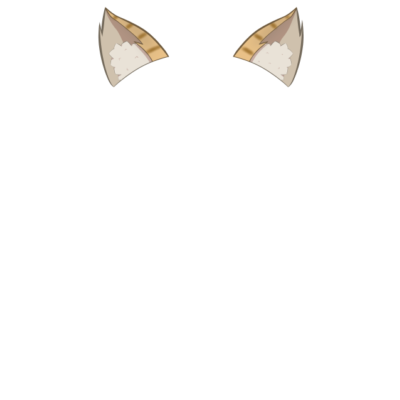
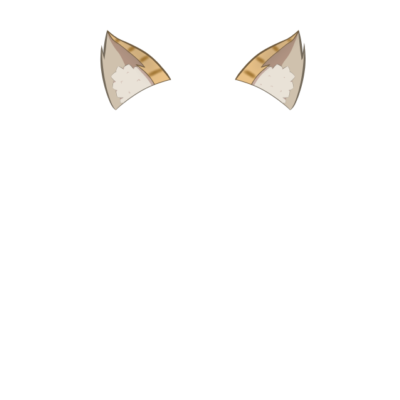
0320

Changed region(s): [[0.57, 0.0, 0.78, 0.27], [0.24, 0.0, 0.42, 0.27]]

diff --git a/merge.py b/merge.py
@@ -11,9 +11,12 @@ class merge():
         self.predictor = openpifpaf.Predictor(checkpoint='shufflenetv2k16')
         self.cap = caputure.caputure(self.predictor, f)
         # 画像名, 中心番地, サイズ, 必要検出, 基準ライン
-        self.effects = [[["null", 0, 0, [], []] for i in range(3)] for i in range(10)]
+        self.effects = [[["null", 0, 0, [], [], False] for i in range(3)] for i in range(10)]
+        # マーカーのフラグ
         self.flag = False
+        # スクショカウントのフラグ
         self.shot = False
+        # カウントが開始してるかどうかのフラグ
         self.countFlag = False
         pass
 
@@ -37,57 +40,61 @@ class merge():
                                 flag = False
                                 break
                         if flag:
-                            effect.effect(frame, d, "./effect/" + effectData[0] + ".png", effectData[1], effectData[2], effectData[4][0], effectData[4][1])
+                            effect.effect(frame, d, "./effect/" + effectData[0] + ".png", effectData[1], effectData[2], effectData[4][0], effectData[4][1], effectData[5])
                 at += 1
         
         return frame
     
+    # 付与するエフェクトの判定する関数
     def selectEffects(self, d, at):
         #案１の検出
-        # if d[5][0] and d[6][0] and d[7][0] and d[8][0] and d[9][0] and d[10][0] and d[15][0] and d[16][0]:
-        #     if d[9][2] < d[7][2] and d[10][2] < d[8][2] and d[5][2] < d[9][2] and d[6][2] < d[10][2] and d[15][1]-d[16][1] > 50:
-        #         self.clearEffects(at)
-        #         self.effects[at][0] = ["1", 0, 5, [0, 1, 2], [1, 2]]
+        if d[5][0] and d[6][0] and d[7][0] and d[8][0] and d[9][0] and d[10][0]:
+            far_sholder = abs(d[5][1] - d[6][1])
+            if d[9][1] > d[5][1] and d[9][2] > d[5][2] and d[9][1] < d[5][1] + far_sholder * 1.5 and d[10][1] < d[6][1] and d[10][2] > d[6][2] and d[10][1] > d[6][1] - far_sholder * 1.5 and d[9][1] > d[7][1] and d[9][2] < d[7][2]and d[10][1] < d[8][1] and d[10][2] < d[8][2]:
+                self.clearEffects(at)
+                self.effects[at][0] = ["power", 0, 8, [0, 5, 6], [5, 6], True]
         #案2の検出
         if d[1][0] and d[2][0] and d[5][0] and d[6][0] and d[9][0] and d[10][0] and d[11][0] and d[12][0]:
             if d[10][1] > d[9][1] and d[5][1]-d[2][1]+d[1][1] > d[9][1] and d[6][1]+d[2][1]-d[1][1] < d[10][1] and d[5][2] < d[9][2] and d[6][2] < d[10][2] and d[11][2] > d[9][2] and d[12][2] > d[10][2]:
                 self.clearEffects(at)
-                self.effects[at][0] = ["don", 0, 5, [0, 5, 6], [5, 6]]
-        # #案3の検出
+                self.effects[at][0] = ["don", 0, 5, [0, 5, 6], [5, 6], True]
+        #案3の検出
         if d[1][0] and d[2][0] and d[9][0] and d[10][0]:
             radius_R = math.sqrt(pow(d[9][1] - d[0][1], 2) + pow(d[9][2] - d[0][2], 2))
             radius_L = math.sqrt(pow(d[10][1] - d[0][1], 2) + pow(d[10][2] - d[0][2], 2))
             if radius_R < 5 * abs(d[1][1] - d[2][1]) and radius_L < 5 * abs(d[1][1] - d[2][1]) and d[9][2] > d[10][2]:
                 self.clearEffects(at)
-                self.effects[at][0] = ["cat_ear", 0, 6, [0, 1, 2], [1, 2]]
-                self.effects[at][1] = ["cat_tail", 11, 2.5, [11, 12], [11, 12]]
+                self.effects[at][0] = ["cat_ear", 0, 6, [0, 1, 2], [1, 2], False]
+                self.effects[at][1] = ["cat_tail", 11, 2.5, [11, 12], [11, 12], False]
         # #案4の検出
-        if d[1][0] and d[5][0] and d[6][0] and d[9][0] and d[10][0] and d[13][0] and d[14][0]:
+        if d[0][0] and d[5][0] and d[6][0] and d[9][0] and d[10][0] and d[13][0] and d[14][0]:
             far_hand = abs(d[9][1] - d[10][1])
             far_sholder = abs(d[5][1] - d[6][1])
             far_knees = abs(d[13][1] - d[14][1])
-            if far_hand > far_sholder * 2 and far_knees > far_sholder * 1.5 and d[9][2] < d[1][2]:
+            if far_hand > far_sholder * 2 and far_knees > far_sholder * 1.5 and d[9][2] < d[0][2] and d[10][2] < d[0][2] and d[9][2] > d[0][2] - far_sholder and d[10][2] > d[0][2] - far_sholder:
                 self.clearEffects(at)
-                self.effects[at][1] = ["grab_L", 9, 1.5, [7, 9], [7, 9]]
-                self.effects[at][2] = ["grab_R", 10, 1.5, [8, 10], [8, 10]]
+                self.effects[at][1] = ["grab_L", 9, 1.5, [7, 9], [7, 9], False]
+                self.effects[at][2] = ["grab_R", 10, 1.5, [8, 10], [8, 10], False]
         #案5の検出
         if d[1][0] and d[2][0] and d[9][0] and d[10][0] and d[11][0] and d[12][0]:
             radius_R = math.sqrt(pow(d[9][1] - d[11][1], 2) + pow(d[9][2] - d[11][2], 2))
             radius_L = math.sqrt(pow(d[10][1] - d[12][1], 2) + pow(d[10][2] - d[12][2], 2))
             if radius_R < 3 * abs(d[1][1] - d[2][1]) and radius_L < 3 * abs(d[1][1] - d[2][1]):
                 self.clearEffects(at)
-                self.effects[at][0] = ["kirakira", 0, 5, [0, 5, 6], [5, 6]]
-                self.effects[at][1] = ["kirakira", 0, 8, [0, 1, 2], [1, 2]]
+                self.effects[at][0] = ["kirakira", 0, 5, [0, 5, 6], [5, 6], True]
+                self.effects[at][1] = ["kirakira", 0, 8, [0, 1, 2], [1, 2], True]
         # エフェクトのクリア
         if d[5][0] and d[6][0] and d[9][0] and d[10][0]:
-            if  abs(d[9][2] - d[10][2]) < 50 and abs(d[9][1] - d[10][1] > 3.5 * abs(d[5][1] - d[6][1])) and d[9][2] > d[5][2]:
+            if  abs(d[9][2] - d[10][2]) < 50 and abs(d[9][1] - d[10][1] > 3 * abs(d[5][1] - d[6][1])) and d[9][2] > d[5][2]:
                 # cv2.line(frame, (d[9][1], d[9][2]), (d[10][1], d[10][2]), (0, 255, 0), thickness=5)
                 self.clearEffects(at)
 
+    # エフェクトをクリアする関数
     def clearEffects(self, at):
         for i in range(3):
-            self.effects[at][i] = ["null", 0, 0, [0], [0, 0]]
+            self.effects[at][i] = ["null", 0, 0, [0], [0, 0], False]
 
+    # マーカーオンオフを判定する関数
     def switchFlag(self):
         if self.flag:
             self.flag = False
@@ -95,6 +102,7 @@ class merge():
             self.flag = True
         return
 
+    # マーカーを取得座標に描画するクラス
     def drowPoint(self, frame, d):
         if d[0][0]: # 鼻
             cv2.drawMarker(frame, (d[0][1], d[0][2]), (0, 0, 255), markerSize=30)
@@ -131,6 +139,7 @@ class merge():
         if d[16][0]: # 
             cv2.drawMarker(frame, (d[16][1], d[16][2]), (0, 0, 255), markerSize=30)
 
+    # 画像を出力するクラス
     def printImg(self, frame):
         dt_now = datetime.datetime.now()
         src = str(dt_now.day) + "_" +  str(dt_now.hour) + "_" +  str(dt_now.minute) + "_" + str(dt_now.second)
@@ -138,6 +147,7 @@ class merge():
         print('./img/' + src + '.jpg')
         return
     
+    # スクショカウントのオンオフ関数
     def switchShotOn(self):
         if not self.shot and not self.countFlag:
             print("shot on")

diff --git a/main.py b/main.py
@@ -19,10 +19,6 @@ while True:
     if not ret:
         print("failed to grab frame")
         break
-
-    # パフォーマンスを向上させるために、画像を書き込みを不可にして参照渡しとします。
-    # frame.flags.writeable = False
-
     # pifpafで処理する画素値を下げている ※取得座標を変化させないといけない
     frame2 = cv2.resize(frame, dsize=None, fx=1/f , fy=1/f)
     frame2.flags.writeable = False
@@ -34,12 +30,13 @@ while True:
     frame.flags.writeable = True
 
     frame = cv2.flip(frame, 1)
-
+    # スクリーンショットの処理を開始
     if me.shot:
         t = time.time()
         print("count on")
         me.countFlag = True
         me.shot = False
+    # スクリーンショットカウントが開始
     if me.countFlag:
         c = time.time()
         if c - t >= 3:
@@ -63,10 +60,13 @@ while True:
 
 
     k = cv2.waitKey(1)
+    # マーカーを表示
     if k == ord('q'):
         frame = me.switchFlag()
+    # スクショカウントオン
     if k == ord('s'):
         me.switchShotOn()
+    # 終了
     if k%256 == 27:
         # ESC pressed
         print("Escape hit, closing...")

diff --git a/effect.py b/effect.py
@@ -1,8 +1,8 @@
 import cv2
 import math
 import numpy as np
-
-def effect(frame, data, imgPath, centerPoint, size, startLine, endLine):
+# エフェクトの付与を行うクラス
+def effect(frame, data, imgPath, centerPoint, size, startLine, endLine, rotable):
     main_frame = frame
     alpha_frame = cv2.imread(imgPath, cv2.IMREAD_UNCHANGED)  # アルファチャンネル込みで読み込む
     w = alpha_frame.shape[1]
@@ -21,6 +21,8 @@ def effect(frame, data, imgPath, centerPoint, size, startLine, endLine):
 
     lineX = np.where(lineX == 0, 1, lineX)
     angle = math.degrees(math.atan2(-1 * lineY, lineX))
+    if rotable:
+        angle = 0
     trans = cv2.getRotationMatrix2D(center=(int(w/2), int(h/2)), angle=angle , scale=1.0)
     alpha_frame = cv2.warpAffine(src=alpha_frame, M=trans, dsize=(w,h))
 

diff --git a/caputure.py b/caputure.py
@@ -1,4 +1,4 @@
-
+# pifpafで座標を取得し返すクラス
 class caputure():
     def __init__(self, predictor, f):
         self.predictor = predictor
